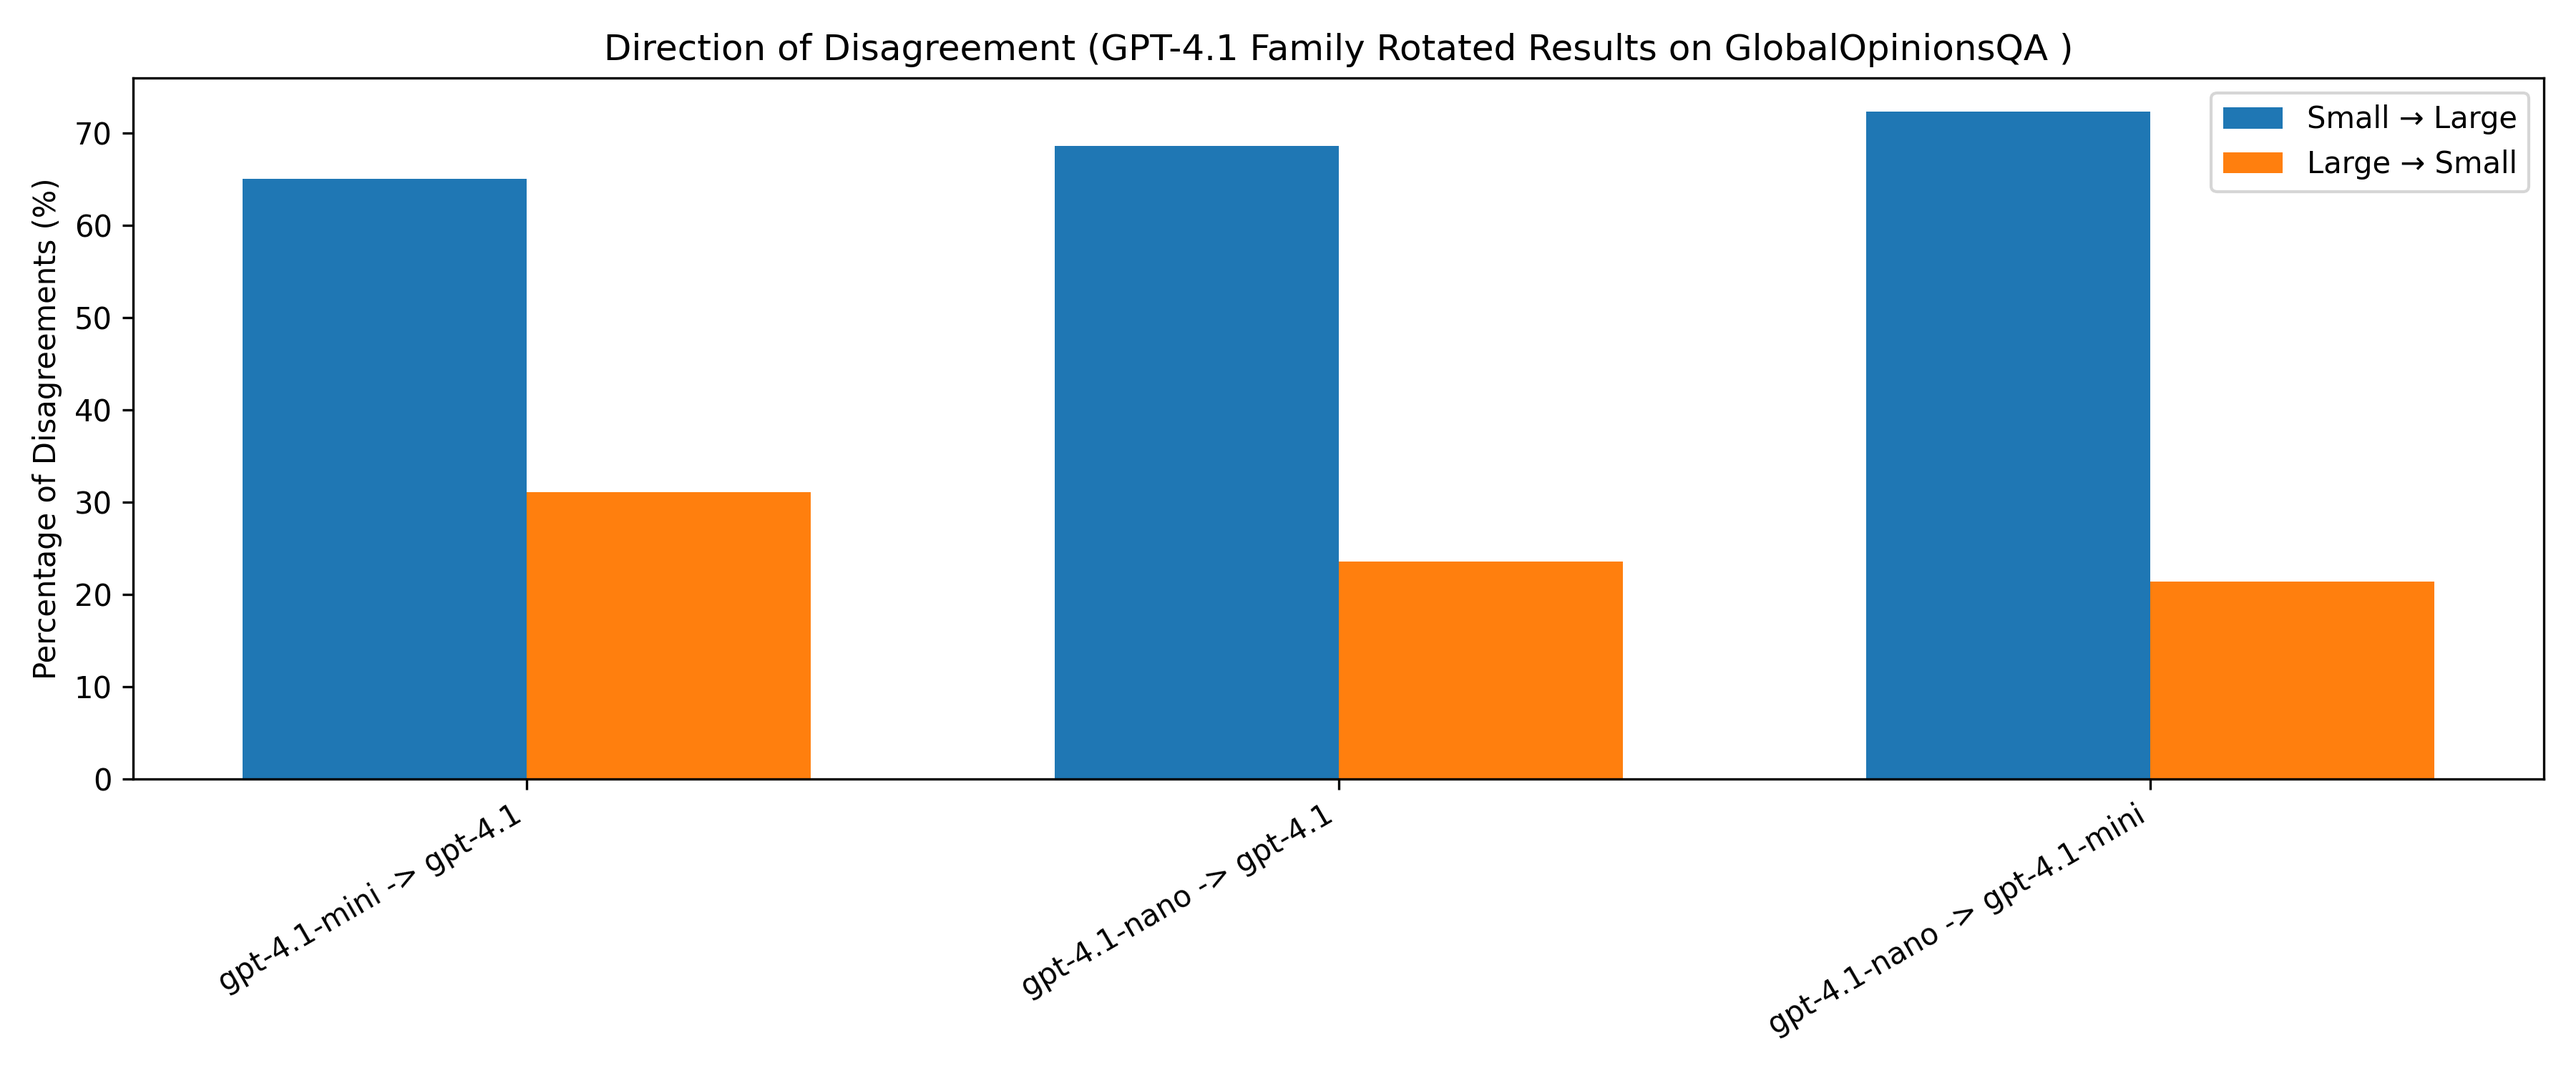
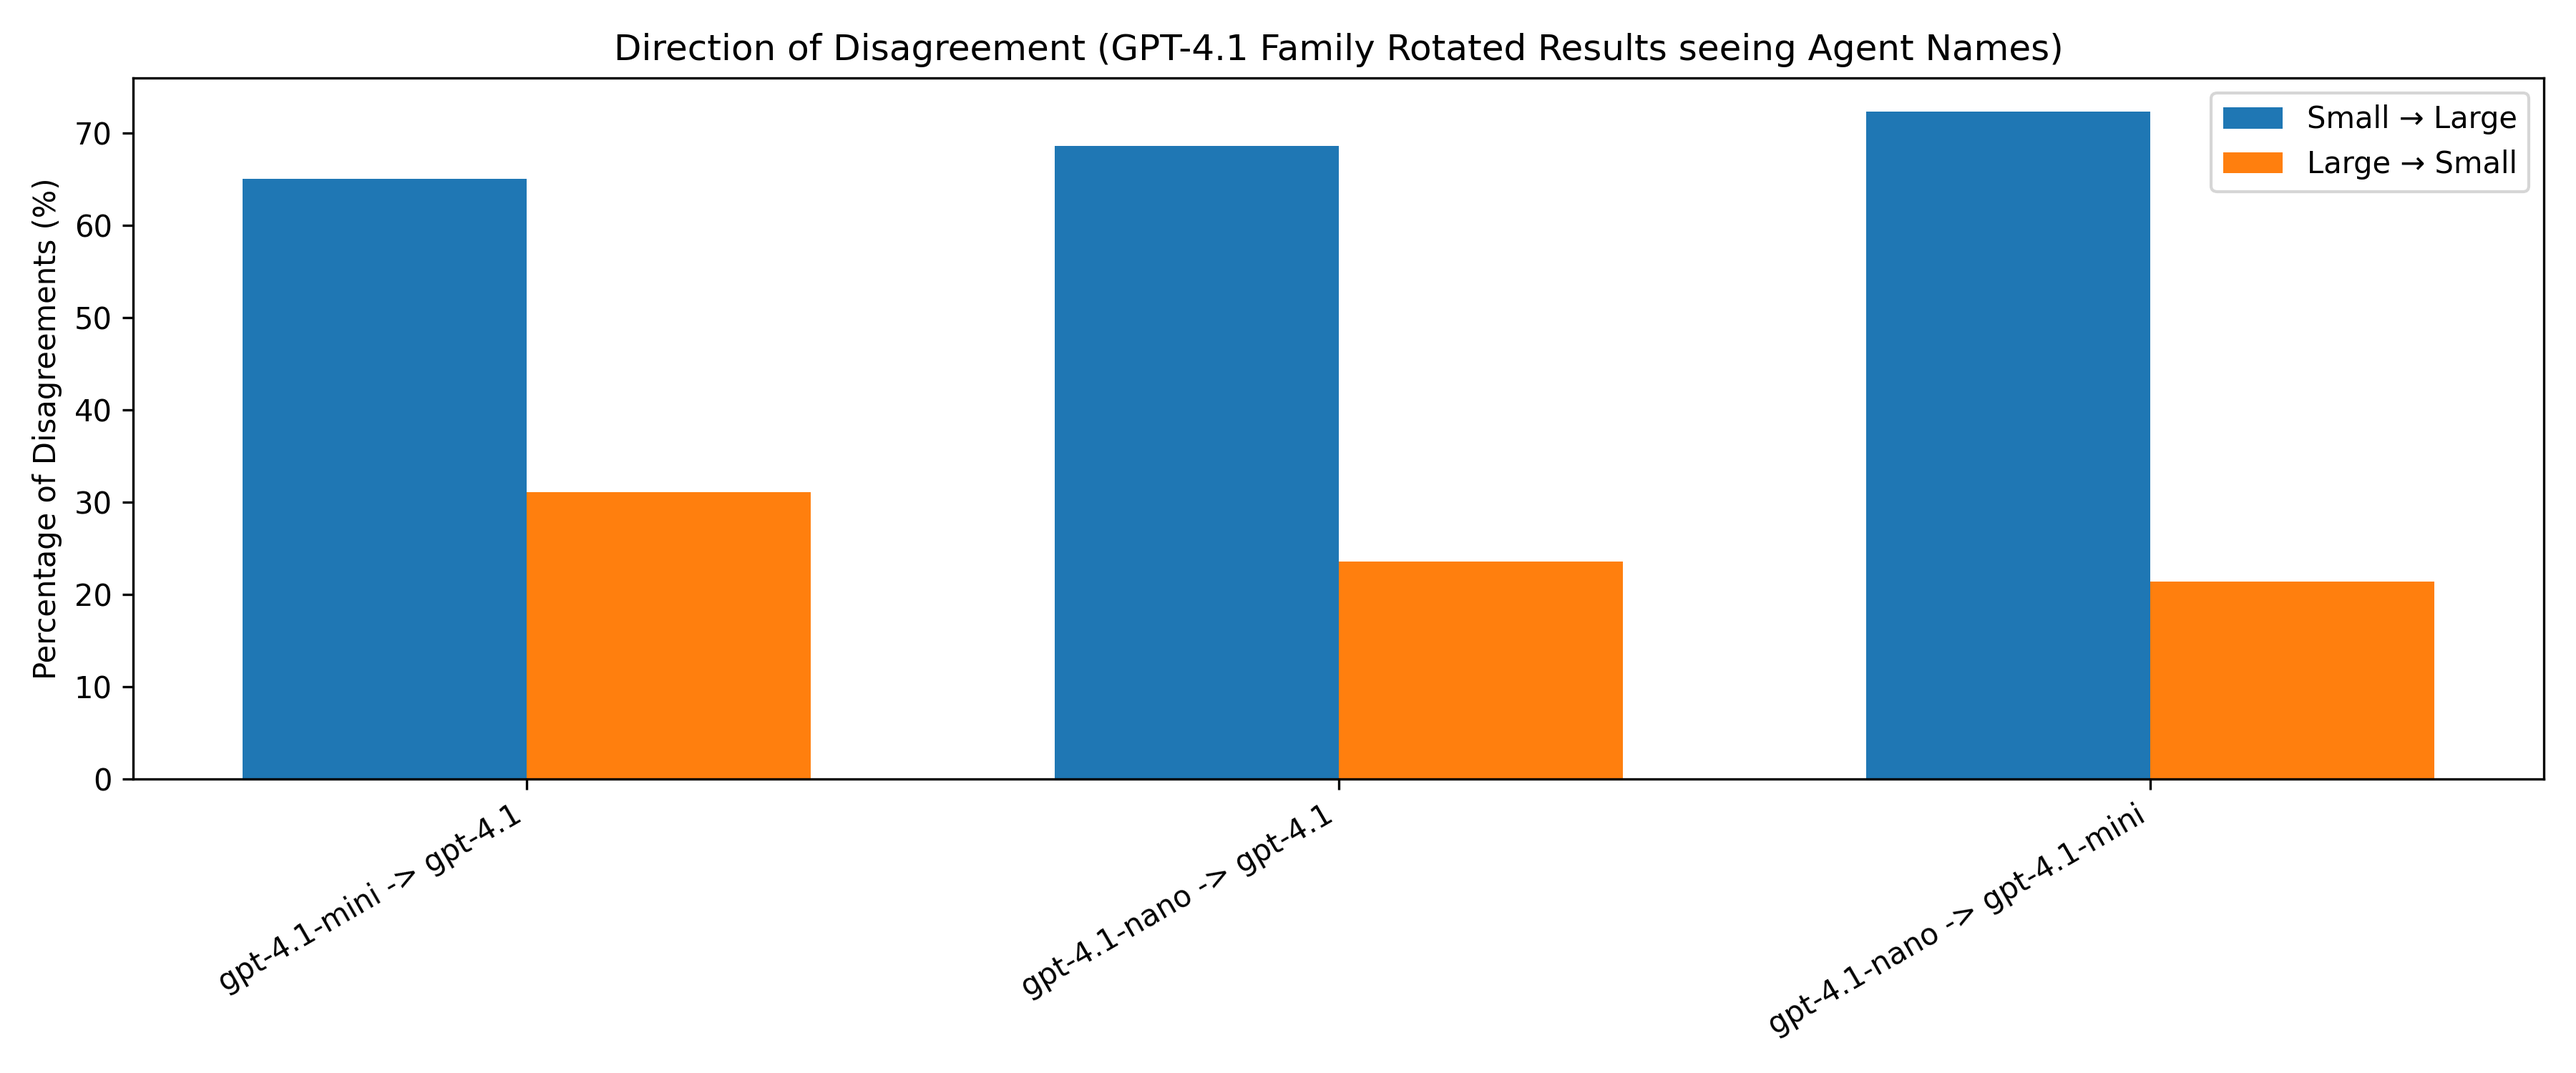
Modified experimetns

Changed region(s): [[0.2178, 0.0307, 0.8089, 0.0613]]

diff --git a/change_answer_no_seeing_names.py b/change_answer_no_seeing_names.py
@@ -1,0 +1,194 @@
+import json
+import os
+import asyncio
+import re
+
+from model import run_model
+from multiagent_rotate import agent_talk
+from main import load_config, get_completed, parse_answer
+
+
+def rank_models(config_path):
+    if config_path == "configs/gpt-4.1-fam-rotate.yaml":
+        biggest = "gpt-4.1"
+        middle = "gpt-4.1-mini"
+        smallest = "gpt-4.1-nano"
+    elif config_path == "configs/llama-fam-rotate.yaml":
+        biggest = "Meta-Llama-3.1-405B-Instruct"
+        middle = "Llama-3.3-70B-Instruct"
+        smallest = "Meta-Llama-3.1-8B-Instruct"
+    elif config_path == "configs/random_models-rotate.yaml":
+        biggest = "grok-3"
+        middle = "DeepSeek-R1"
+        smallest = "Llama-3.3-70B-Instruct"
+    else:
+        raise ValueError(f"Unknown config path: {config_path}")
+    return biggest, middle, smallest
+
+
+def rotate_R1_answers(R1, biggest_agent, middle_agent, smallest_agent, num_options):
+    ori_biggest = R1[biggest_agent]["raw_output"]
+    ori_middle = R1[middle_agent]["raw_output"]
+    ori_smallest = R1[smallest_agent]["raw_output"]
+
+    biggest_answer = parse_answer(ori_biggest, num_options)
+    middle_answer = parse_answer(ori_middle, num_options)
+    smallest_answer = parse_answer(ori_smallest, num_options)
+
+    if "INVALID" in {biggest_answer, middle_answer, smallest_answer}:
+        return None
+
+    if len({biggest_answer, middle_answer, smallest_answer}) == 1:
+        return None
+
+    def swap_answers(raw, new_answer):
+        return re.sub(r"ANSWER:\s*[A-Z]", f"ANSWER: {new_answer}", raw)
+
+    R1_rotated = json.loads(json.dumps(R1))
+
+    R1_rotated[middle_agent]["raw_output"] = swap_answers(ori_middle, smallest_answer)
+    R1_rotated[middle_agent]["answer"] = smallest_answer
+
+    R1_rotated[biggest_agent]["raw_output"] = swap_answers(ori_biggest, middle_answer)
+    R1_rotated[biggest_agent]["answer"] = middle_answer
+
+    R1_rotated[smallest_agent]["raw_output"] = swap_answers(ori_smallest, biggest_answer)
+    R1_rotated[smallest_agent]["answer"] = biggest_answer
+
+    return R1_rotated
+
+
+def parse_round(round_data, num_options):
+    parsed = {}
+    for agent_id, raw in round_data.items():
+        if not isinstance(raw, str) or not raw.strip():
+            parsed[agent_id] = {
+                "answer": "INVALID",
+                "raw_output": "",
+                "model_failed": True
+            }
+        else:
+            parsed[agent_id] = {
+                "answer": parse_answer(raw, num_options),
+                "raw_output": raw.strip(),
+                "model_failed": False
+            }
+    return parsed
+
+
+async def run_rotated_experiment(config_path, old_results_dir):
+    config = load_config(config_path)
+    biggest_model, middle_model, smallest_model = rank_models(config_path)
+
+    agent_to_model = config["agents"]
+    model_to_agent = {
+        model_name: agent_label
+        for agent_label, model_name in agent_to_model.items()
+    }
+
+    agents = list(agent_to_model.keys())
+
+    agent_runners = {}
+    for agent_label, model_name in agent_to_model.items():
+        agent_runners[agent_label] = (
+            lambda p, m=model_name: run_model(p, model_name=m)
+        )
+
+    new_dir = old_results_dir + "_rotated"
+    os.makedirs(new_dir, exist_ok=True)
+
+    completed = get_completed(new_dir)
+
+    files = sorted(
+        (
+            f for f in os.listdir(old_results_dir)
+            if f.startswith("q_") and f.endswith(".json")
+        ),
+        key=lambda x: int(x[2:-5])
+    )
+
+    for fname in files:
+        qid = int(fname[2:-5])
+
+        if qid in completed:
+            print(f"[SKIP] Rotated question {qid}")
+            continue
+
+        with open(os.path.join(old_results_dir, fname)) as f:
+            old = json.load(f)
+
+        R1 = old["rounds"][0]
+        num_options = len(old["options"])
+
+        biggest_agent = model_to_agent[biggest_model]
+        middle_agent = model_to_agent[middle_model]
+        smallest_agent = model_to_agent[smallest_model]
+
+        R1_rotated = rotate_R1_answers(
+            R1,
+            biggest_agent,
+            middle_agent,
+            smallest_agent,
+            num_options
+        )
+
+        rotation_applied = R1_rotated is not None
+        if not rotation_applied:
+            R1_rotated = R1
+
+        history = [{
+        agent: R1_rotated[agent]["raw_output"]
+        for agent in agents
+                    }]
+
+
+        new_rounds = await agent_talk(
+            agents=agents,
+            agent_runners=agent_runners,
+            question=old["question"],
+            options=old["options"],
+            selections=None,
+            max_rounds=3,
+            history=history
+        )
+
+        parsed_rounds = [
+            parse_round(r, num_options) for r in new_rounds
+        ]
+
+        output = {
+            "question": old["question"],
+            "options": old["options"],
+            "agent_models": agent_to_model,
+            "rounds": parsed_rounds,
+            "rotation": rotation_applied
+        }
+
+        with open(os.path.join(new_dir, f"q_{qid}.json"), "w") as f:
+            json.dump(output, f, indent=2)
+
+        print(f"[SAVED] Rotated convo {qid} -> {new_dir}")
+
+
+if __name__ == "__main__":
+    config_dir = "configs"
+
+    config_files = sorted(
+        f for f in os.listdir(config_dir)
+        if f.endswith(".yaml") or f.endswith(".yml")
+    )
+
+    if not config_files:
+        raise RuntimeError("No config files found in configs/")
+
+    for cfg in config_files:
+        if "rotate" not in cfg:
+            continue
+
+        config_path = os.path.join(config_dir, cfg)
+        config = load_config(config_path)
+        results_root = config["experiment"]["results_root"]
+
+        asyncio.run(
+            run_rotated_experiment(config_path, old_results_dir=results_root)
+        )

diff --git a/gpt-4.1-fam_disagree.py b/gpt-4.1-fam_disagree.py
@@ -7,6 +7,10 @@ ORIGINAL_RESULTS_DIR = (
     "agents_3_questions_2556"
 )
 
+ALT_ORIGINAL_RESULTS_DIR = (
+    "results/GlobalOpinionsQA/gpt-4.1-family/agents_3_questions_2089"
+)
+
 ROTATED_RESULTS_DIR = (
     "results/GlobalOpinionsQA/agent_names/gpt-4.1-fam/"
     "agents_3_questions_2556_rotated"
@@ -18,12 +22,22 @@ ROUND_JSON_NORMAL = os.path.join(
     OUTPUT_BASE, "per_round_disagreement_NORMAL.json"
 )
 
+ROUND_JSON_ALT_NORMAL = os.path.join(
+    "analysis_outputs/gpt-4.1-family",
+    "per_round_disagreement_NORMAL.json"
+)
+
 ROUND_JSON_ROTATED = os.path.join(
     OUTPUT_BASE, "per_round_disagreement_ROTATED.json"
 )
 
 DIRECTIONAL_JSON_NORMAL = os.path.join(
     OUTPUT_BASE, "gpt4.1_family_NORMAL_directional.json"
+)
+
+DIRECTIONAL_JSON_ALT_NORMAL = os.path.join(
+    "analysis_outputs/gpt-4.1-family",
+    "gpt4.1_family_NORMAL_directional.json"
 )
 
 DIRECTIONAL_JSON_ROTATED = os.path.join(
@@ -81,13 +95,10 @@ def analyze_per_round(data):
             for i, m1 in enumerate(models):
                 for m2 in models[i + 1:]:
                     per_round[r_idx]["total_pairs"] += 1
-
                     a1 = get_answer(r, m1)
                     a2 = get_answer(r, m2)
-
                     if a1 == "INVALID" or a2 == "INVALID":
                         continue
-
                     if a1 != a2:
                         per_round[r_idx]["disagreements"] += 1
 
@@ -185,8 +196,8 @@ def save_directional(initial, s2l, l2s, path):
             "initial_disagreements": total,
             "small_to_large": s,
             "large_to_small": l,
-            "small_to_large_pct": round(s / total * 100, 2),
-            "large_to_small_pct": round(l / total * 100, 2),
+            "small_to_large_pct": round(s / total * 100, 2) if total > 0 else 0,
+            "large_to_small_pct": round(l / total * 100, 2) if total > 0 else 0,
         }
 
     ensure_dir(path)
@@ -200,14 +211,20 @@ if __name__ == "__main__":
     print("\n=== GPT-4.1 FAMILY: NORMAL vs ROTATED ANALYSIS ===\n")
 
     orig_data = load_results(ORIGINAL_RESULTS_DIR)
+    alt_orig_data = load_results(ALT_ORIGINAL_RESULTS_DIR)
     rot_data = load_results(ROTATED_RESULTS_DIR)
 
     print(f"Loaded {len(orig_data)} normal questions")
+    print(f"Loaded {len(alt_orig_data)} ALT normal questions")
     print(f"Loaded {len(rot_data)} rotated questions")
 
     per_round_norm = analyze_per_round(orig_data)
     print_per_round("NORMAL", per_round_norm)
     save_per_round(per_round_norm, ROUND_JSON_NORMAL)
+
+    per_round_alt = analyze_per_round(alt_orig_data)
+    print_per_round("ALT_NORMAL", per_round_alt)
+    save_per_round(per_round_alt, ROUND_JSON_ALT_NORMAL)
 
     per_round_rot = analyze_per_round(rot_data)
     print_per_round("ROTATED", per_round_rot)
@@ -216,6 +233,10 @@ if __name__ == "__main__":
     init_norm, s2l_norm, l2s_norm = analyze_conditioned(orig_data, orig_data)
     print_directional("NORMAL", init_norm, s2l_norm, l2s_norm)
     save_directional(init_norm, s2l_norm, l2s_norm, DIRECTIONAL_JSON_NORMAL)
+
+    init_alt, s2l_alt, l2s_alt = analyze_conditioned(alt_orig_data, alt_orig_data)
+    print_directional("ALT_NORMAL", init_alt, s2l_alt, l2s_alt)
+    save_directional(init_alt, s2l_alt, l2s_alt, DIRECTIONAL_JSON_ALT_NORMAL)
 
     init_rot, s2l_rot, l2s_rot = analyze_conditioned(orig_data, rot_data)
     print_directional("ROTATED", init_rot, s2l_rot, l2s_rot)

diff --git a/plot_defer.py b/plot_defer.py
@@ -71,7 +71,7 @@ if __name__ == "__main__":
     plot_directional_bars(
         random_data,
         "Direction of Disagreement (Random Models)",
-        "directional_bars_random_models.png",
+        "directional_bars_random_models_agentNames.png",
     )
 
     plot_directional_bars(
@@ -82,12 +82,12 @@ if __name__ == "__main__":
 
     plot_directional_bars(
         gpt41_data,
-        "Direction of Disagreement (GPT-4.1 Family on GlobalOpinionsQA )",
-        "directional_bars_gpt41_family_opinionsqa.png",
+        "Direction of Disagreement (GPT-4.1 Family seeing Agent Names )",
+        "directional_bars_gpt41_family_agentNames.png",
     )
     plot_directional_bars(
         gpt41_rotate_data,
-        "Direction of Disagreement (GPT-4.1 Family Rotated Results on GlobalOpinionsQA )",
+        "Direction of Disagreement (GPT-4.1 Family Rotated Results seeing Agent Names)",
         "directional_bars_gpt41_family_rotated.png",
     )
 

diff --git a/check.py b/check.py
@@ -28,12 +28,12 @@ def main():
     )
     parser.add_argument(
         "--folder",
-        default="GlobalOpinionsQA/agent_names/random_models",
+        default="GlobalOpinionsQA/gpt-4.1-family",
         required=False
     )
     parser.add_argument(
         "--results-subdir",
-        default="agents_3_questions_2556_rotated",
+        default="agents_3_questions_2089",
         required=False
     )
 
